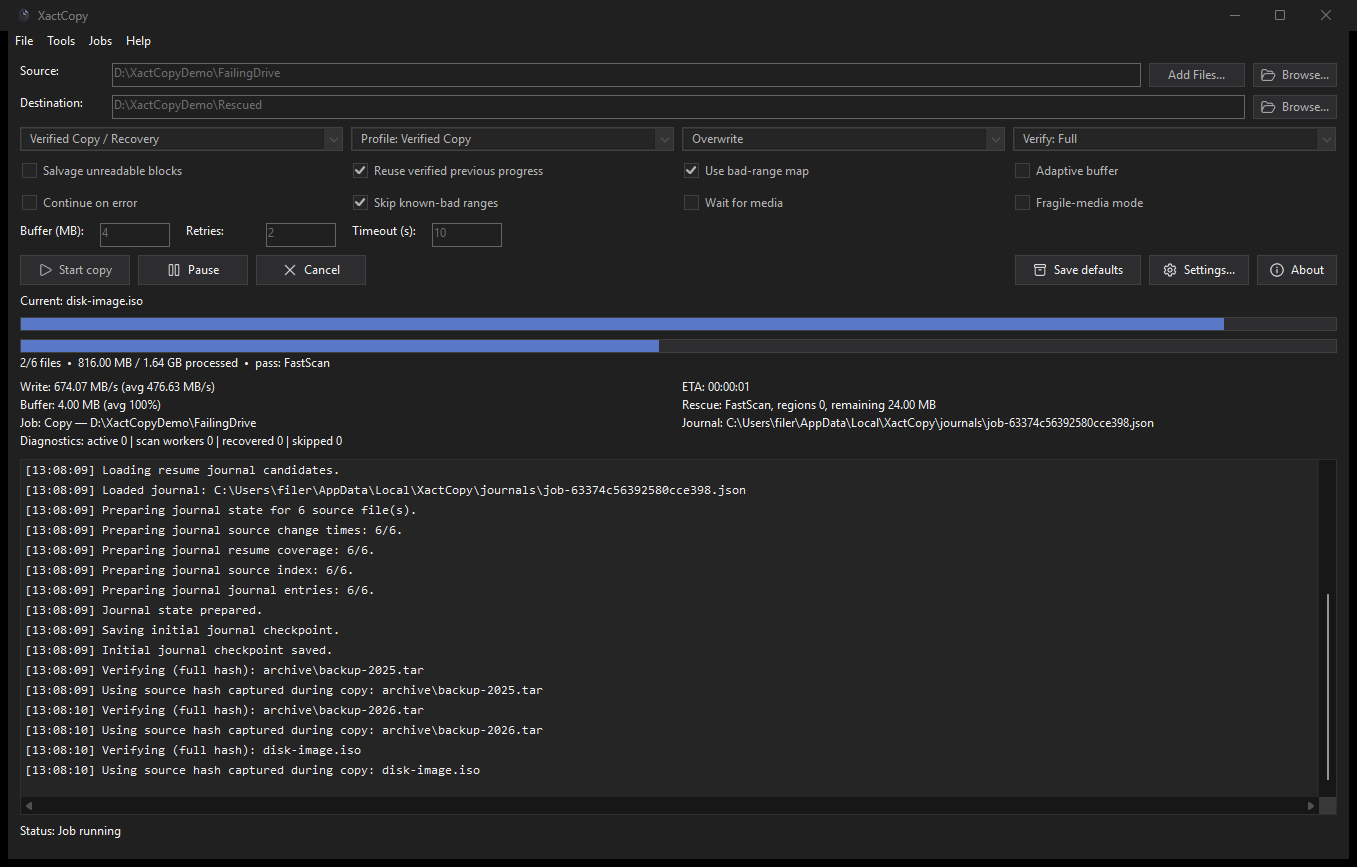
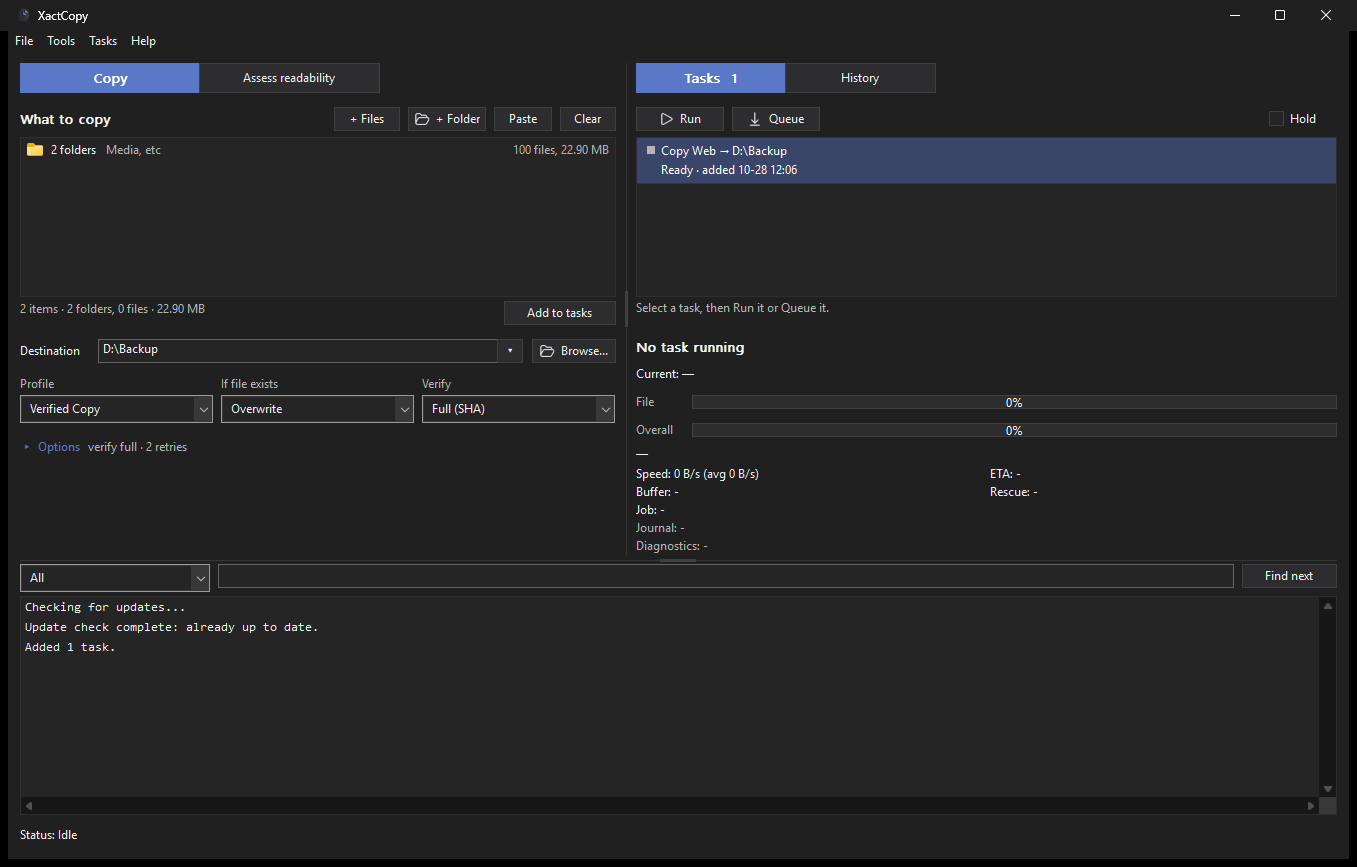
Release 2.1.0.0
Bump the version, add the 2.1.0.0 changelog entry, and recapture the main-window and settings screenshots for the new UI.

diff --git a/src/version.h b/src/version.h
@@ -4,13 +4,13 @@
 // Single source of truth for the product version. Keep these macros usable by
 // both C++ and the Windows resource compiler.
 #define XACTCOPY_VERSION_MAJOR 2
-#define XACTCOPY_VERSION_MINOR 0
+#define XACTCOPY_VERSION_MINOR 1
 #define XACTCOPY_VERSION_BUILD 0
-#define XACTCOPY_VERSION_REVISION 8
+#define XACTCOPY_VERSION_REVISION 0
 
 #define XACTCOPY_VERSION_COMMA \
     XACTCOPY_VERSION_MAJOR, XACTCOPY_VERSION_MINOR, XACTCOPY_VERSION_BUILD, XACTCOPY_VERSION_REVISION
-#define XACTCOPY_VERSION_STRING "2.0.0.8"
-#define XACTCOPY_VERSION_WSTRING L"2.0.0.8"
+#define XACTCOPY_VERSION_STRING "2.1.0.0"
+#define XACTCOPY_VERSION_WSTRING L"2.1.0.0"
 
 #endif

diff --git a/CHANGELOG.md b/CHANGELOG.md
@@ -5,6 +5,65 @@ All notable changes to XactCopy are documented in this file.
 The format is based on [Keep a Changelog](https://keepachangelog.com/en/1.1.0/).
 Versions are four-part (`major.minor.build.revision`) and tagged `v<version>`.
 
+## [2.1.0.0] — 2026-10-28
+
+### Changed
+
+- **New main window.** A **Copy | Assess readability** switch picks the mode;
+  the choices below it are captioned and relabel themselves for scanning, and
+  switching modes never moves the layout. The item list and the task list share
+  one top and height, and splitters size the log and the two columns (both
+  remembered; double-click resets).
+- **What to copy** groups everything one action adds (several folders picked in
+  one dialog, a paste, a drop) into one row. **Add to tasks**, beside the list,
+  turns the selected rows (or all of them) into tasks; Ctrl+Enter adds and
+  queues. A row spanning several folders or drives becomes one task with
+  several parts, run back to back.
+- **Tasks and History replace the Job Manager window.** Tasks lists the running
+  task, then the queue in run order, then everything else; two buttons follow
+  the selected row (Run / Queue, Start now / Unqueue, Pause / Stop), and **Hold**
+  lets the current task finish before the queue waits. Run and Start now start
+  the chosen task even while the queue is held. History lists every run with
+  its details and journal findings, plus Resume, Journal, Report, Range map,
+  and Delete. Tasks, the queue, and history live in the signed job catalog.
+- **Pinned tasks** always stay; tasks added from the builder follow an on-exit
+  choice (Ask / Keep / Discard, with "Remember my choice" and a setting).
+  Existing saved jobs become pinned tasks, and leftover unstarted tasks from
+  earlier builds move into the queue once.
+- **Explorer** gains **Assess with XactCopy** next to **Copy with XactCopy** on
+  files, folders, drives, and folder backgrounds; each opens in its mode.
+- **Direct NTFS assessments elevate automatically.** A task, a queued task, or a
+  crash-recovery resume that needs raw volume reads relaunches XactCopy as
+  administrator and continues the same run. Links and folders opened from an
+  elevated window still open as the signed-in user.
+- **Settings** were audited: choices the main window already shows are saved
+  with **File → Save as defaults** instead of being repeated, the Job Manager
+  grid settings are gone, and interrupted-run handling is one choice (Ask /
+  Resume automatically / Leave in History).
+
+### Fixed
+
+- Paths longer than 260 characters copy and verify correctly.
+- Full verification reads the destination from disk (unbuffered) instead of
+  from the file cache.
+- Sleep and resume no longer make the watchdog restart a healthy worker.
+- Failure, error, mismatch, and warning log lines are never rate-limited away.
+- Closing with a run active shows one prompt that names a copy or an
+  assessment. The interrupted-run prompt can be told not to ask at startup;
+  History keeps offering Resume.
+- Salvage and "Treat Access Denied as contention" can no longer be combined
+  into a run the worker refuses.
+- Task rows, list borders, and owner-drawn controls no longer show overlapping
+  text, white flashes, or stale slivers while resizing or switching modes.
+
+### Performance
+
+- Resume no longer re-verifies finished files twice; small files copy in
+  parallel by default; per-file media checks are cached; verification hashes
+  source and destination concurrently.
+- The log is virtual (owner-data), filters by severity, searches, and saves
+  without blocking the window.
+
 ## [2.0.0.8] — 2026-08-18
 
 ### Fixed
@@ -211,6 +270,7 @@ supersedes the 1.x VB.NET releases.
   and the `vbnet-final` tag. Its on-disk journals, bad-range maps, and settings
   remain compatible with this release.
 
+[2.1.0.0]: https://github.com/Wimukthi/XactCopy/releases/tag/v2.1.0.0
 [2.0.0.8]: https://github.com/Wimukthi/XactCopy/releases/tag/v2.0.0.8
 [2.0.0.7]: https://github.com/Wimukthi/XactCopy/releases/tag/v2.0.0.7
 [2.0.0.6]: https://github.com/Wimukthi/XactCopy/releases/tag/v2.0.0.6

diff --git a/README.md b/README.md
@@ -13,7 +13,7 @@ XactCopy copies files that ordinary tools give up on — failing drives, scratch
 discs, flaky USB sticks, and network shares that drop out — and recovers as much
 readable data as possible instead of aborting at the first error.
 
-![XactCopy copying from a failing drive](docs/images/main-window.png)
+![The XactCopy main window](docs/images/main-window.png)
 
 </div>
 

diff --git a/docs/USER_GUIDE.md b/docs/USER_GUIDE.md
@@ -21,7 +21,7 @@ Quick Start in the [README](../README.md) is enough.
 
 ## The main window
 
-![The XactCopy main window during a copy](images/main-window.png)
+![The XactCopy main window](images/main-window.png)
 
 The window has two columns: on the left you build tasks, on the right the
 tasks run. The operations log spans the bottom.
